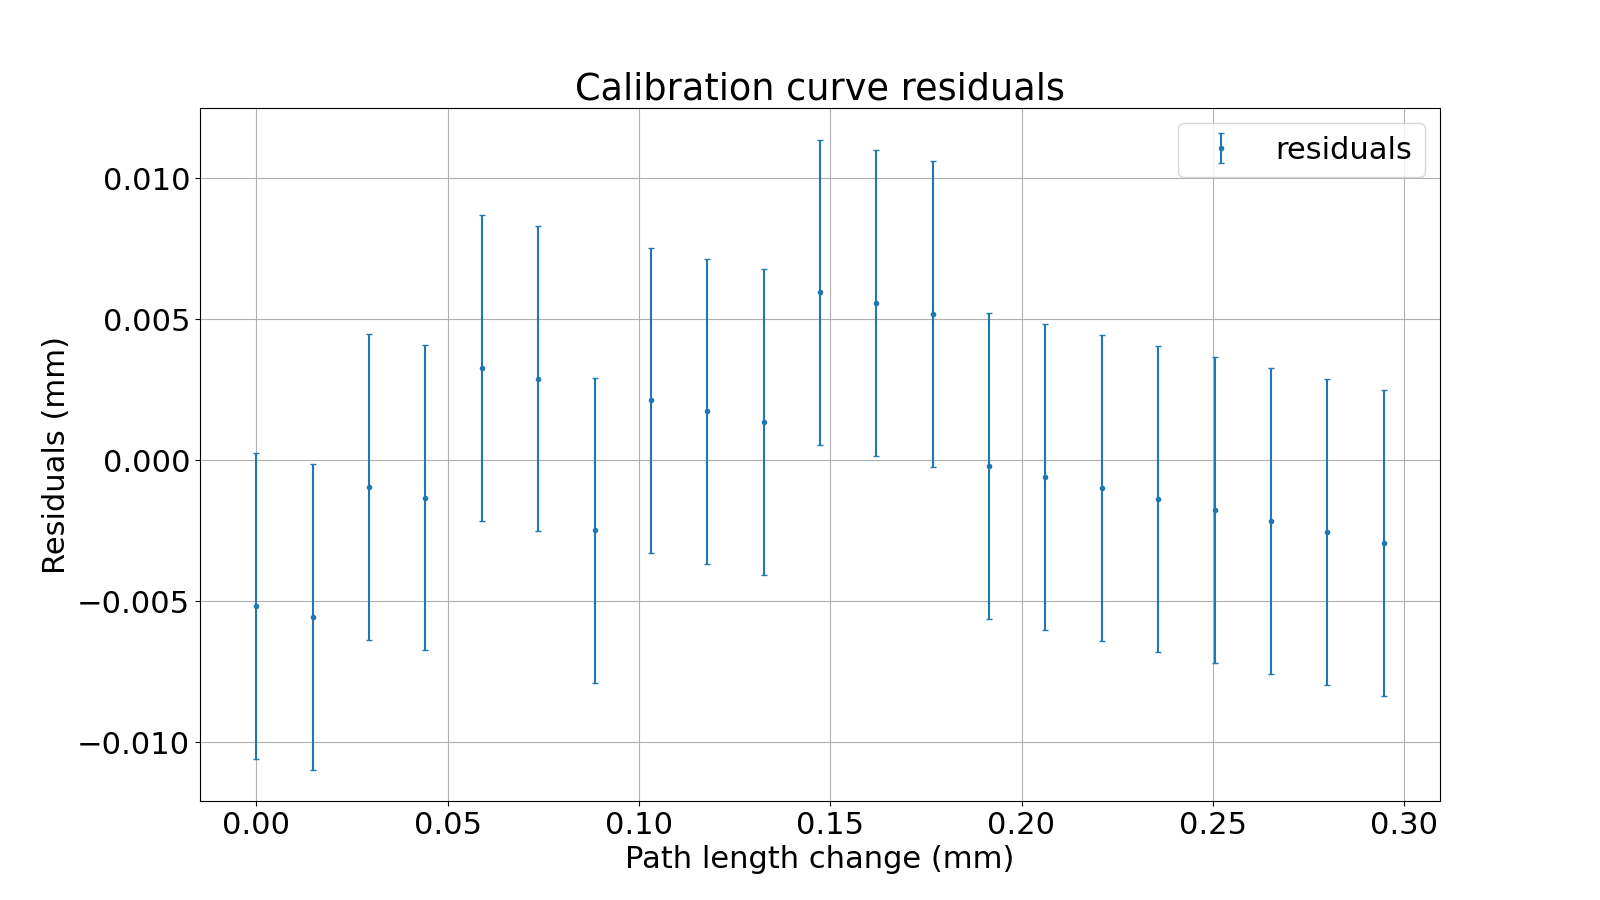
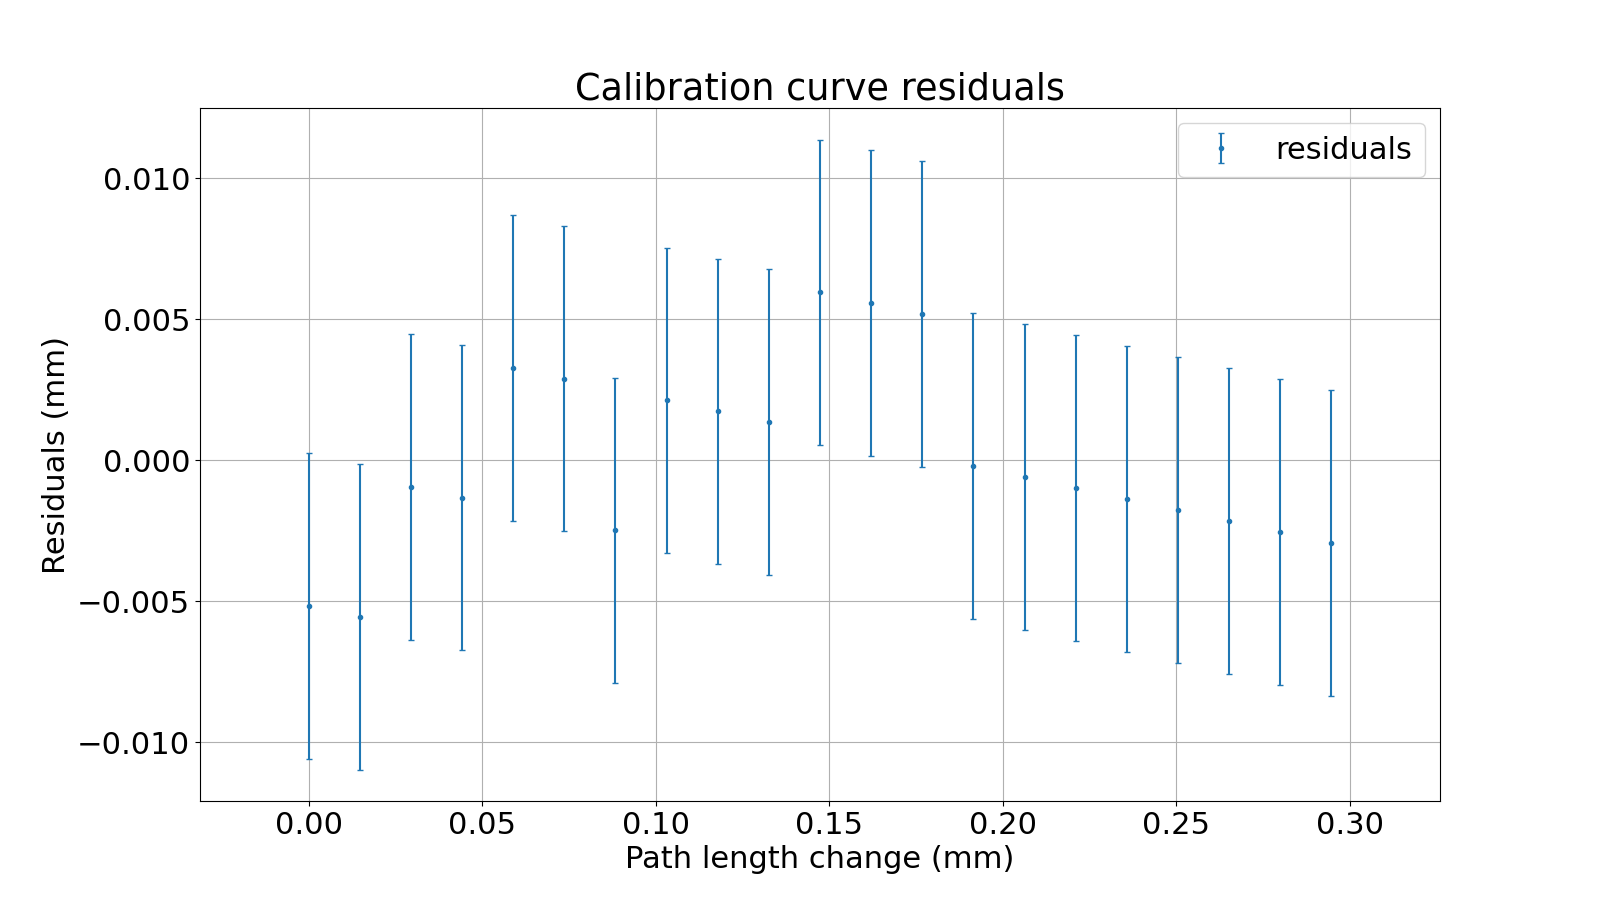
fixed to_sf, was casting to int() type even if there were decimal places because of mistake in if statement

diff --git a/main.py b/main.py
@@ -65,24 +65,39 @@ def plot_residuals(show=True, save=False):
         data.x = data.x * wavelength/2
         data.x_error = data.x_error * wavelength/2
 
+
         fit = fitting.Fitting(model=model, x=data.x, x_error=data.x_error, y_measured=data.full_data,
+                              y_error=data.errors, units_for_parameters=('(unitless)', 'mm'))
+
+        fig, ax = plt.subplots(1, 1, figsize=(16, 9))
+
+        fit.scatter_plot_data_and_fit(ax)
+
+        ax.set_title('Calibration curve for path length change')
+        ax.grid(visible=True, which='both')
+        ax.set_ylabel('Micrometer reading (mm)')  # I disagree with putting units in brackets but TA forces this
+        ax.set_xlabel('Path length change (mm)')
+
+
+        fit2 = fitting.Fitting(model=model, x=data.x, x_error=data.x_error, y_measured=data.full_data,
                               y_error=data.errors, units_for_parameters=('', ''))
 
-        fig, ax2 = plt.subplots(1, 1, figsize=(16, 9))
+        fig2, ax2 = plt.subplots(1, 1, figsize=(16, 9))
 
-        fit.plot_residuals(ax2)
+        fit2.plot_residuals(ax2)
 
         ax2.set_title('Calibration curve residuals')
         ax2.grid(visible=True, which='both')
         ax2.set_ylabel('Residuals (mm)')  # I disagree with putting units in brackets but TA forces this
         ax2.set_xlabel('Path length change (mm)')
+        ax2.set_xlim(*ax.get_xlim())
 
         if show:
-                fig.show()
+                fig2.show()
         if save:
-                fig.savefig('PHY324_Interferometry_calibration_curve_residuals.png')
+                fig2.savefig('PHY324_Interferometry_calibration_curve_residuals.png')
 
 
-fit_data_to_fringes(show=True, save=False)
-fit_data_to_path_length(show=True, save=False)
-plot_residuals(show=True, save=False)
+fit_data_to_fringes(show=False, save=True)
+fit_data_to_path_length(show=False, save=True)
+plot_residuals(show=False, save=True)

diff --git a/fitting_and_analysis.py b/fitting_and_analysis.py
@@ -57,11 +57,12 @@ class Output():
     def baseplot_errorbars_with_markers(self, ax, x, y, yerr=None, xerr=None, **kwargs):
         ax.errorbar(x, y, yerr=yerr, xerr=xerr, linestyle='None', capsize=2, marker='.', **kwargs)
 
-    def to_sf(self, num, sf=1):
+    def to_sf(self, num, sf=3):
         result = '%.*g' % (sf, num)
         # result = (f'{num:.{sf}g}')
         result = float(result)
-        if result >= 1:
+        decimal = Decimal(str(num))
+        if decimal.as_tuple().exponent >= 0:
             result = int(result)
         return result
 
@@ -93,7 +94,7 @@ class Output():
         return rounded_num + '$\pm$' + rounded_uncertainty
 
 
-Output = Output()
-num = 3453478.2981732
-uncert = 0.938274
-print(Output.print_with_uncertainty(num, uncert))
+# Output = Output()
+# num = 3453478.2981732
+# uncert = 0.938274
+# print(Output.print_with_uncertainty(num, uncert))

diff --git a/fitting.py b/fitting.py
@@ -22,7 +22,7 @@ class Fitting():
         self.y_measured = y_measured
         self.y_error = y_error
 
-        self.popt, self.pcov = curve_fit(self.model, self.x, self.y_measured, sigma=y_error, absolute_sigma=True, p0=p0)
+        self.popt, self.pcov = curve_fit(self.model, self.x, self.y_measured, sigma=y_error, absolute_sigma=True, p0=p0, maxfev=100000)
         self.parameter_errors = np.sqrt(np.diag(self.pcov))
 
         self.fitted_function = self.model.CorrespondingFittedFunction(popt=self.popt, parameter_errors=self.parameter_errors, units_for_parameters=units_for_parameters)
